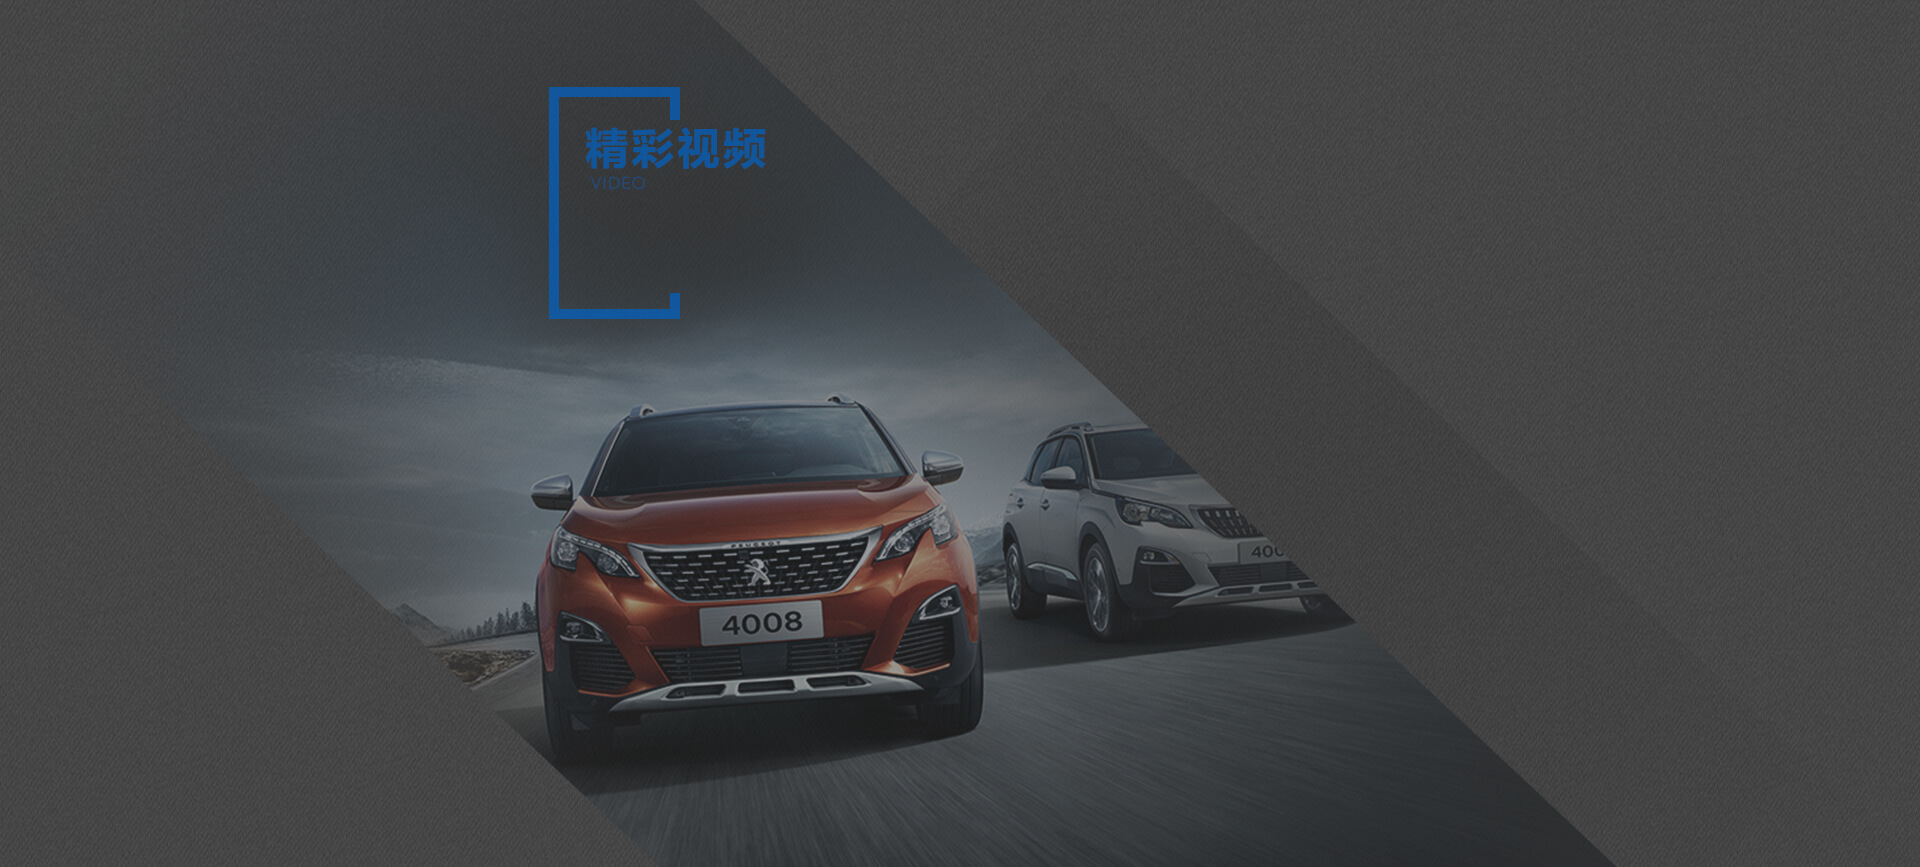
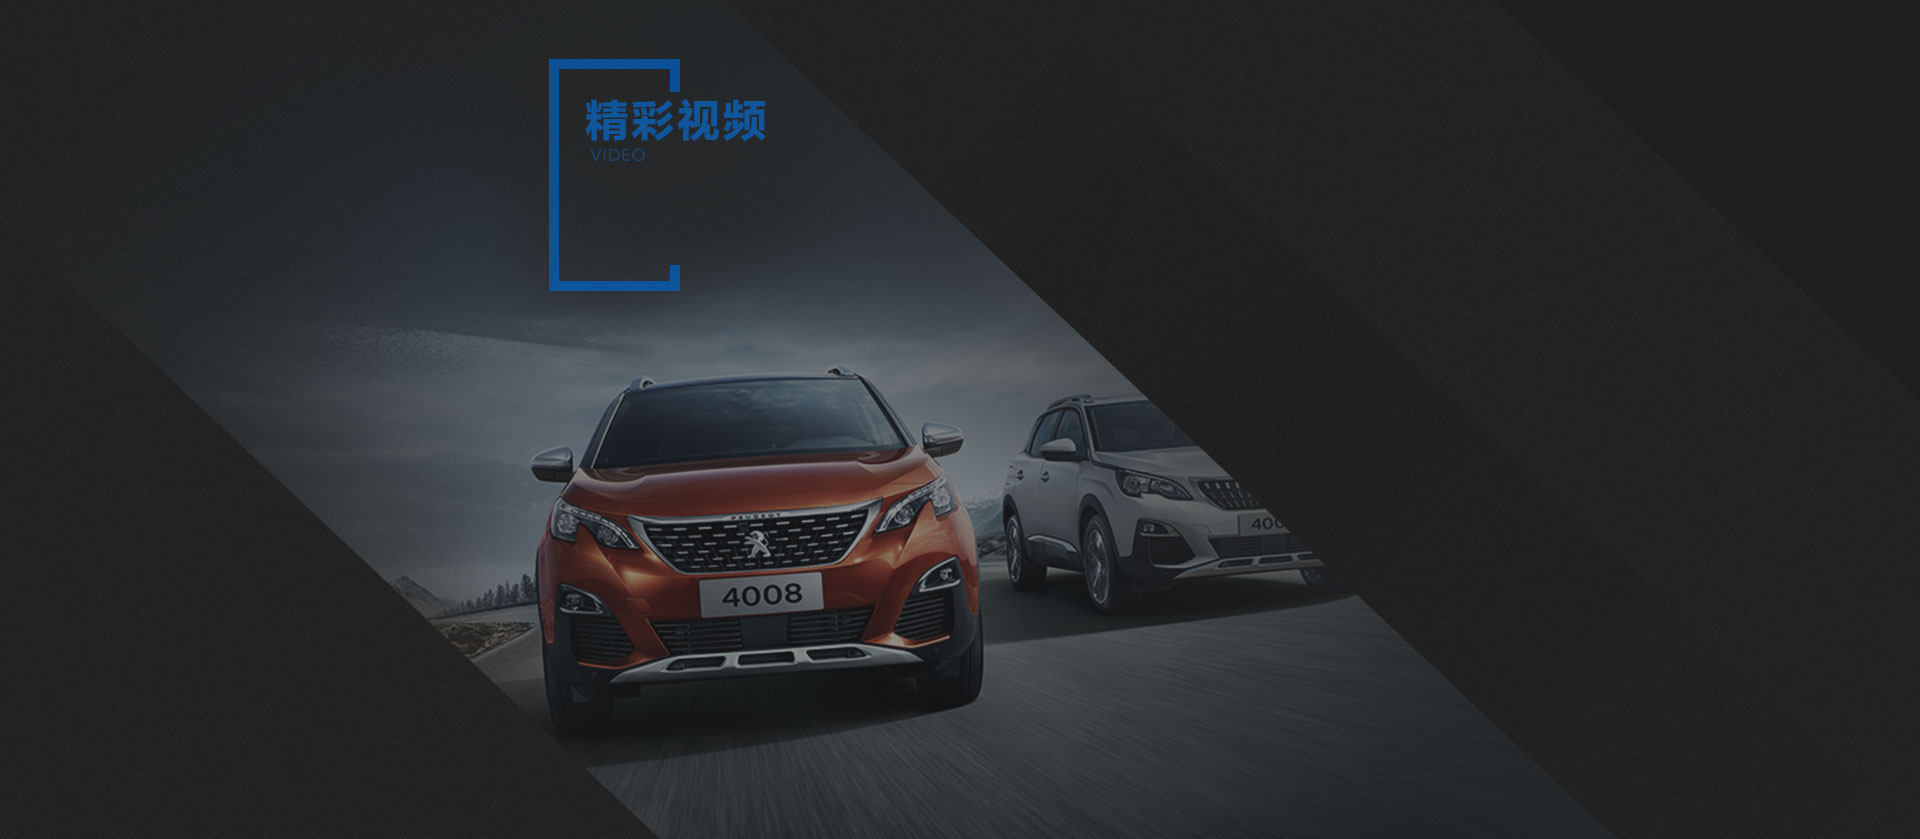
东标修改

diff --git a/peugeot/css/dobSty.css b/peugeot/css/dobSty.css
@@ -52,16 +52,16 @@ a:visited, a:link {color:#c1c1c1; text-decoration:none;}
 a:hover {color:#FFF; text-decoration:underline;}
 
 .box{background:url(../images/bg01.jpg) no-repeat center top;}
-.box01{width:1000px;overflow: hidden;margin:0 auto;height:1399px;position:relative;}
-.box02{background:url(../images/bg02.jpg) no-repeat center top; height:687px;position: relative;}
-.box03{background:url(../images/bg03.jpg) no-repeat center top; height:1591px;}
-.box04{background:url(../images/bg04.jpg) no-repeat center top; height:649px;}
-.box05{background:url(../images/bg05.jpg) no-repeat center top; height:867px;}
-.tk01{position: absolute;top:579px;right:334px;width:155px;height:20px;cursor: pointer}
+.box01{width:1000px;overflow: hidden;margin:0 auto;height:1398px;position:relative;}
+.box02{background:url(../images/bg02.jpg) no-repeat center top; height:686px;position: relative;}
+.box03{background:url(../images/bg03.jpg) no-repeat center top; height:1590px;}
+.box04{background:url(../images/bg04.jpg) no-repeat center top; height:650px;}
+.box05{background:url(../images/bg05.jpg) no-repeat center top; height:839px;}
+.tk01{position: absolute;top:594px;right:427px;width:155px;height:20px;cursor: pointer}
 /*.dB{width:1000px;margin:0 auto;height:500px;padding-top:140px;}*/
 
 /*活动报名*/
-.login{position:absolute;right:0;top:931px;width:331px;height:296px; }
+.login{position:absolute;right:0;top:900px;width:331px;height:296px; }
 .login ul{float:left;}
 .login li{float:left; margin-bottom:14px;height:48px;}
 .login li input.name{font-size:16px;width:101px;height:48px;line-height:48px;color:#999999;padding-left:10px;}
@@ -79,7 +79,7 @@ a:hover {color:#FFF; text-decoration:underline;}
 
 .img4008{width:1000px;margin:0 auto;overflow: hidden;}
  /* 本例子css */
-.slideBoxs{ width:1000px; height:420px;margin-top:166px; overflow:hidden; position:relative;  }
+.slideBoxs{ width:1000px; height:420px;margin-top:138px; overflow:hidden; position:relative;  }
 .slideBoxss{margin-top:60px;}
 .slideBoxsss{margin-top:60px;}
 .slideBox .hd{ height:15px; overflow:hidden; position:absolute; right:5px; bottom:5px; z-index:1; }
@@ -140,15 +140,15 @@ a:hover {color:#FFF; text-decoration:underline;}
 .jmCars{height:365px;overflow: hidden;width:1000px;float:left;}
 
 .video{width:1000px;height:450px;margin:0 auto;overflow: hidden;position:relative;}
-.video ul{z-index:999;position: absolute;top:190px;left:130px;width:114px;}
+.video ul{z-index:999;position: absolute;top:168px;left:130px;width:114px;}
 .video ul li{cursor:pointer;float:left;margin:5px 0px; text-align:center; border:1px solid #017bde;color:#017bde;font-weight:bold;font-size:20px;width:114px;line-height:30px;font-style:oblique}
 .video ul li.on{background:#ff8a00;color:#fff;border:none;height:32px;width:116px;line-height:32px;}
-.videoBox{position:absolute;top:125px;right:82px;width:576px;height:320px;}
+.videoBox{position:absolute;top:100px;right:82px;width:576px;height:320px;}
 .video video{width:100%;}
 
-.box02 img.dbs {position:absolute;width:632px;height:469px;margin-top:160px;left:50%;margin-left:-490px;}
-.box02 .bdss{position:absolute;width:260px;height:300px;left:50%;margin-left:170px;top:290px;}
+.box02 img.dbs {position:absolute;width:632px;height:469px;margin-top:130px;left:50%;margin-left:-490px;}
+.box02 .bdss{position:absolute;width:260px;height:300px;left:50%;margin-left:170px;top:270px;}
 .box02 .bdss h2{font-size:22px;font-weight:normal;color:#132551;}
 .box02 .bdss p{font-size:12px;font-weight:normal;color:#132551;margin-top:15px;}
 .box02 h3{border:10px solid #7fb0e2;position:absolute;}
-.box02 img.dbss{ width:426px; height:371px; display:block;position:absolute;margin-top:208px;left:50%;margin-left:20px;  }
+.box02 img.dbss{ width:426px; height:371px; display:block;position:absolute;margin-top:183px;left:50%;margin-left:20px;  }

diff --git a/peugeot/dongb_pc.html b/peugeot/dongb_pc.html
@@ -196,7 +196,7 @@
     <!-- 了解四重礼详情-弹框 -->
     <div class="bgs">
         <div class="bgss"></div><!-- 黑色透明背景 -->
-        <div class="scl"><img src="images/tk01.jpg"/><span class="close"></span></div><!-- 弹框内容 -->
+        <div class="scl"><img src="images/tk02.jpg"/><span class="close"></span></div><!-- 弹框内容 -->
     </div>   
     <!-- 了解四重礼详情-弹框-end -->
     <!-- 售后及获奖说明-弹框-->
